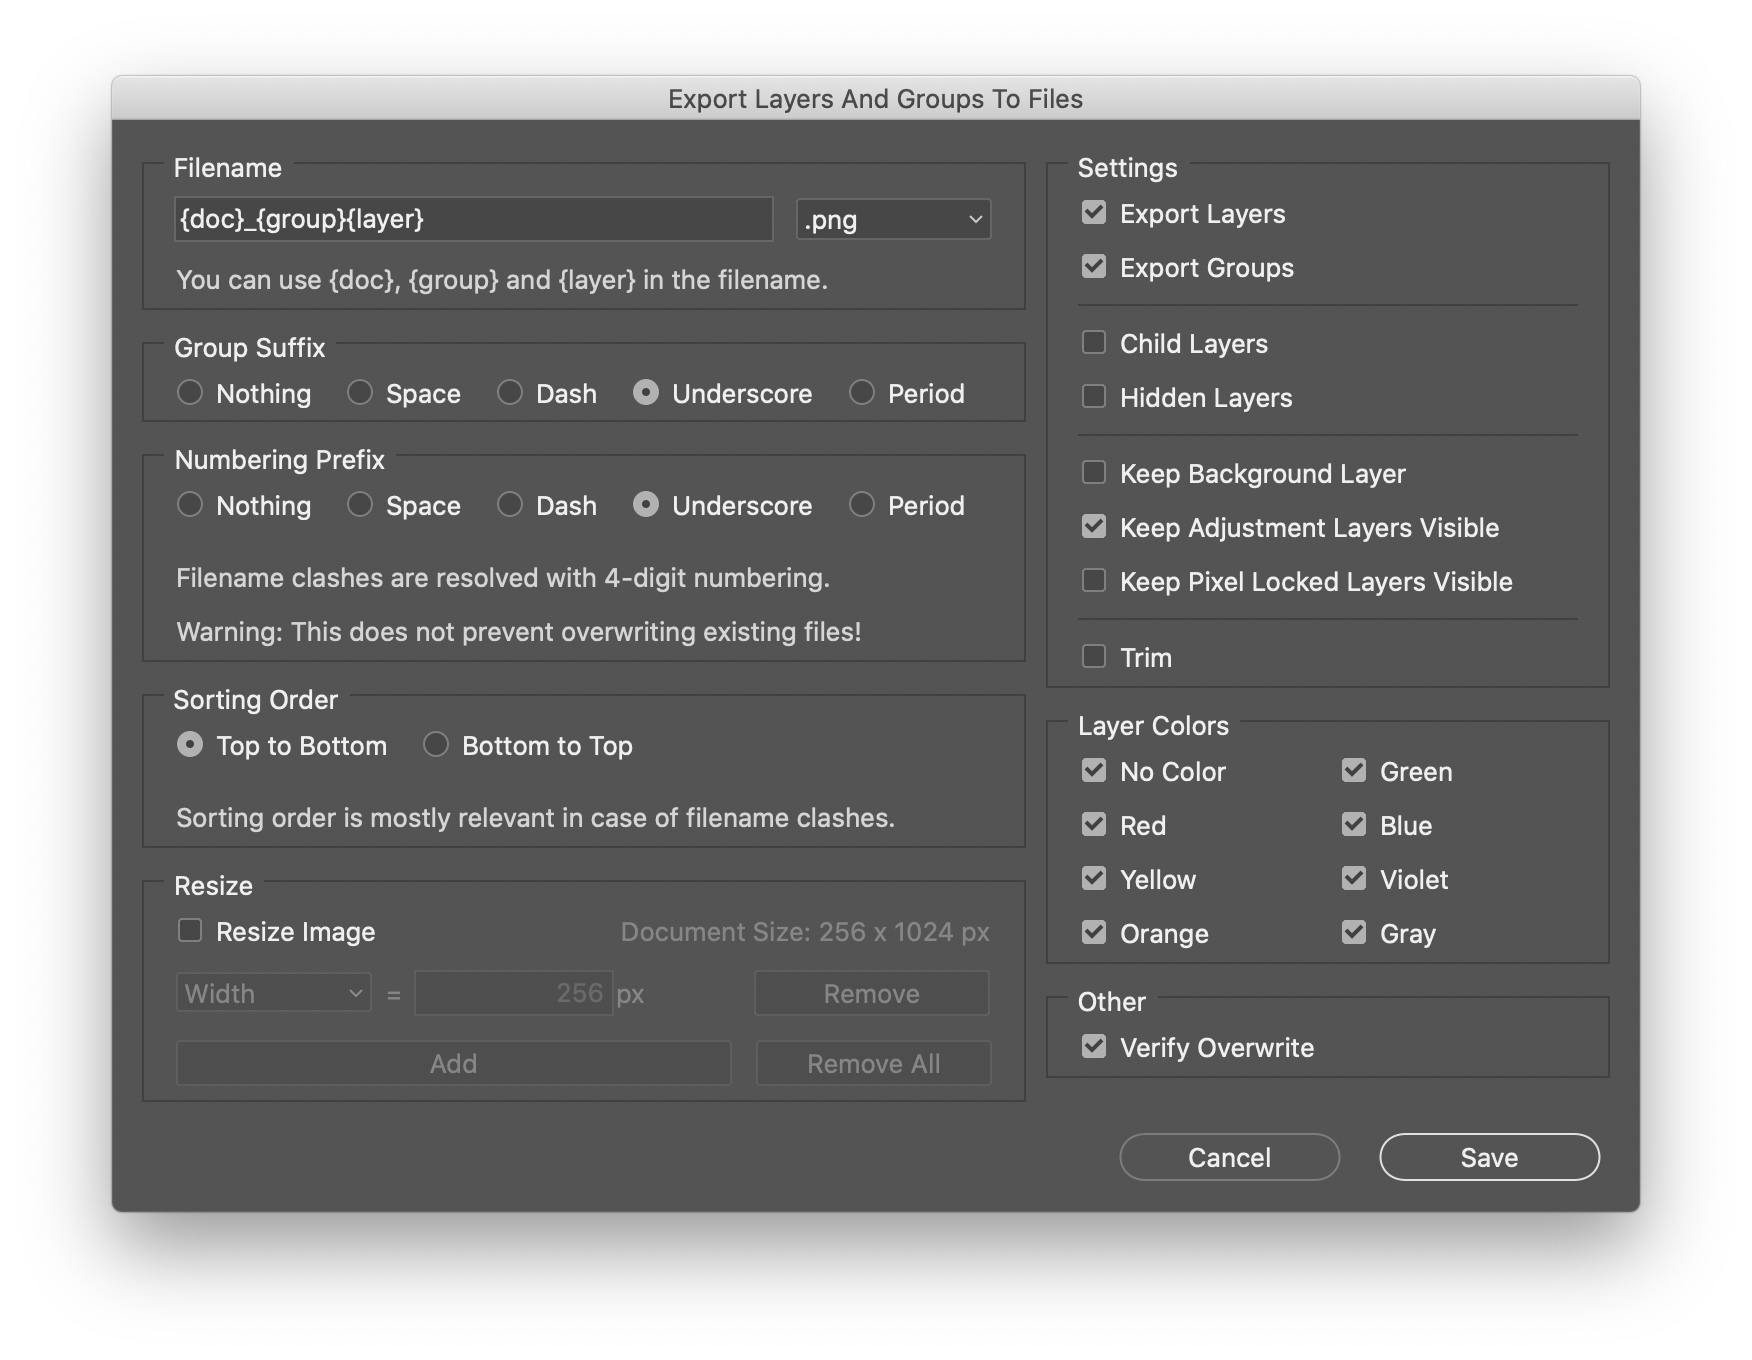
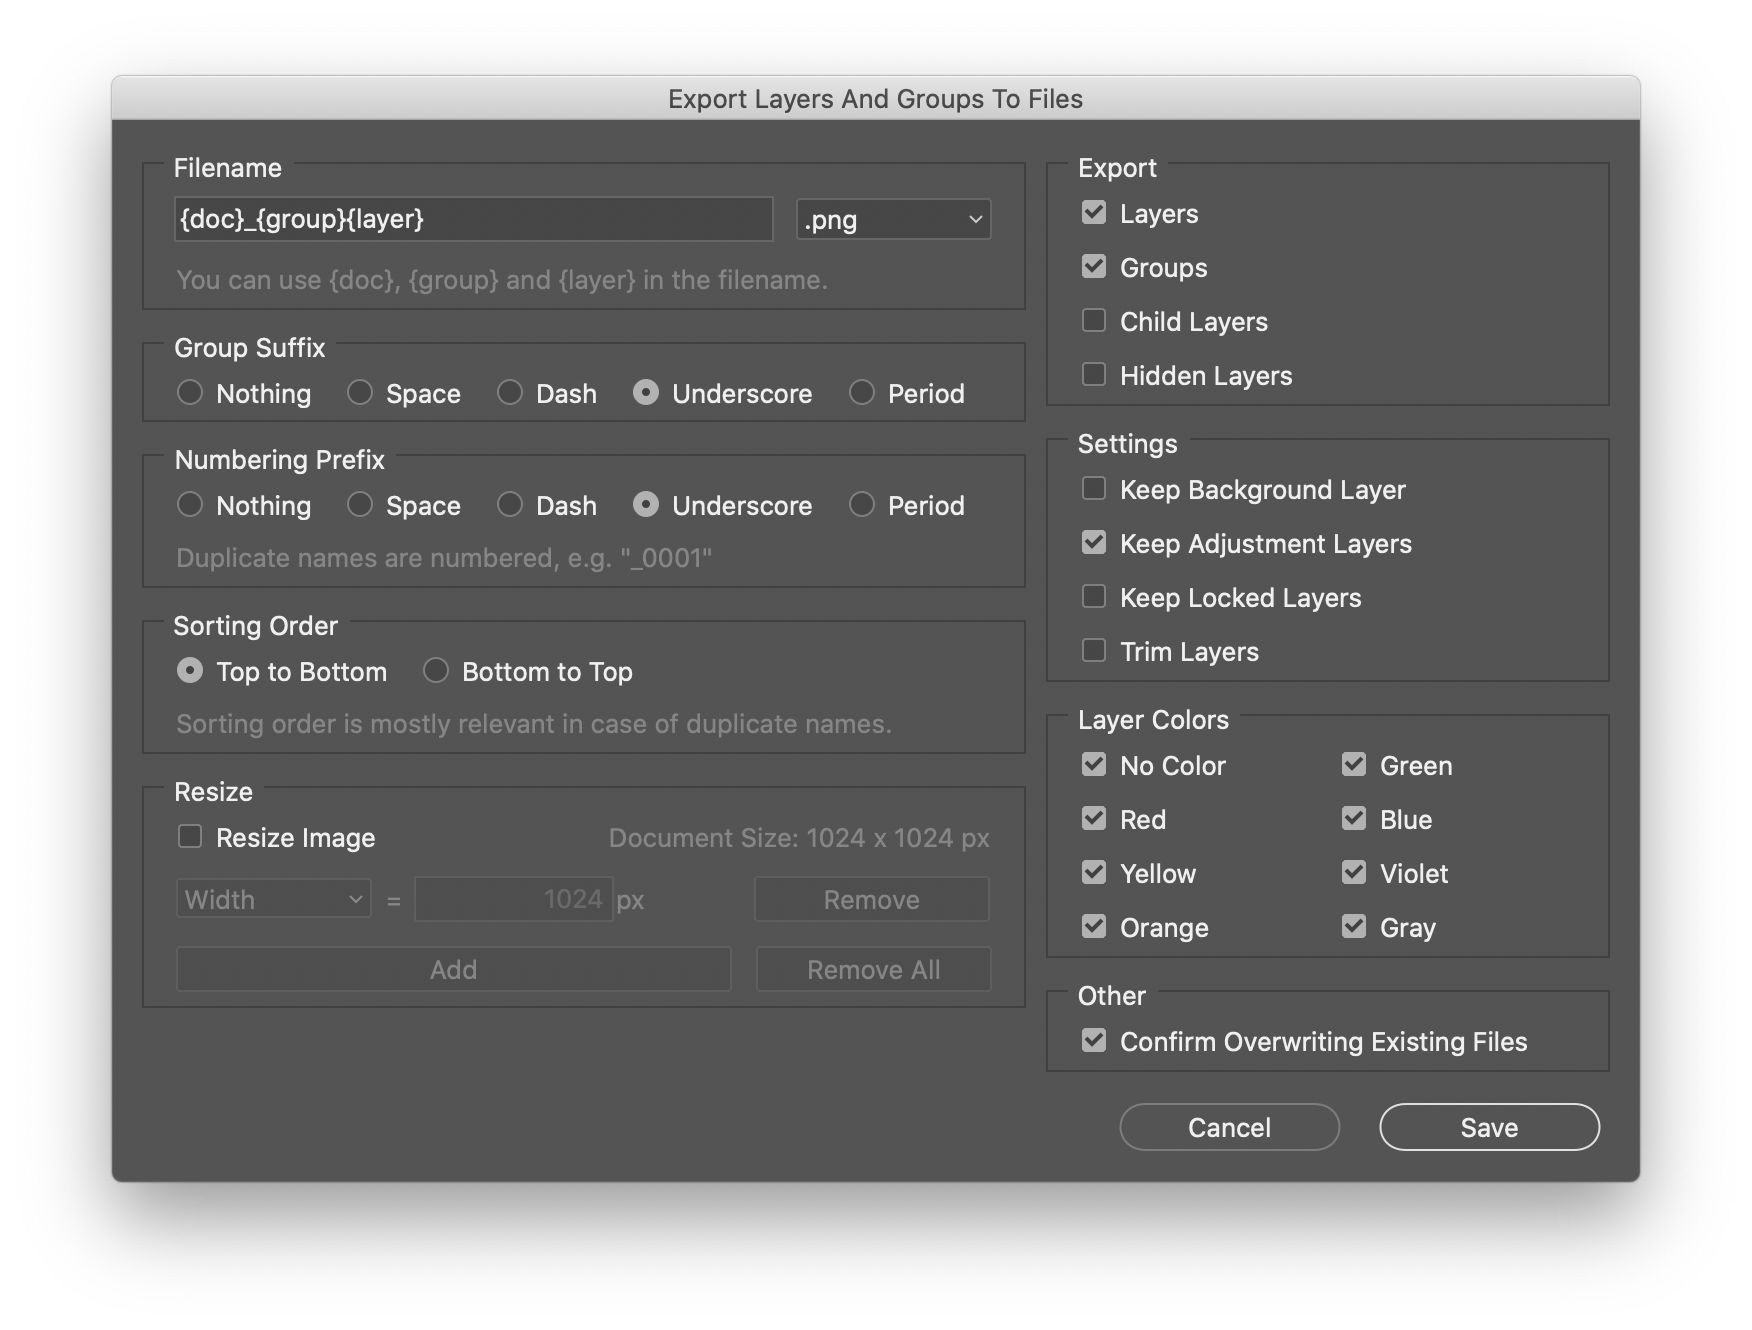
Modified UI

diff --git a/Export Layers And Groups To Files/Export Layers And Groups To Files.jsx b/Export Layers And Groups To Files/Export Layers And Groups To Files.jsx
@@ -26,7 +26,7 @@ SOFTWARE.
 
 const kOptions = 
 {
-	UUID: "94e1f2e6-54d3-4441-b506-1caaac650842",
+	UUID: "f1feca61-db14-4093-9bd5-aff78e1d8006",
 	FILENAME: app.stringIDToTypeID("Filename"),
 	NOCOLOR: app.stringIDToTypeID("NoColor"),
 	RED: app.stringIDToTypeID("Red"),
@@ -48,7 +48,7 @@ const kOptions =
 	PADDINGPREFIX: app.stringIDToTypeID("PaddingPrefix"),
 	BACKGROUND: app.stringIDToTypeID("Background"),
 	SORTINGORDER: app.stringIDToTypeID("SortingOrder"),
-	VERIFYOVERWRITE: app.stringIDToTypeID("VerifyOverwrite"),
+	CONFIRMOVERWRITE: app.stringIDToTypeID("ConfirmOverwrite"),
 	RESIZE: app.stringIDToTypeID("Resize"),
 	RESIZEOPTIONS: app.stringIDToTypeID("ResizeOptions"),
 	RESIZEVALUES: app.stringIDToTypeID("ResizeValues"),
@@ -125,7 +125,7 @@ function main()
 
 	for (var n = 0; n < resizeCount; n++)
 	{
-		if (g.options.verifyOverwrite)
+		if (g.options.confirmOverwrite)
 		{
 			// Make a dry run to see if any files already exists
 			for (var i = 0; i < g.targetLayers.length; i++)
@@ -859,7 +859,8 @@ function showDialog()
 		}
 	}
 
-	win.left.filename.add("statictext", undefined, "You can use {doc}, {group} and {layer} in the filename.");
+	win.left.filename.description = win.left.filename.add("statictext", undefined, "You can use {doc}, {group} and {layer} in the filename.");
+	win.left.filename.description.enabled = false;
 
 	// group suffix
 	win.left.groupSuffix = win.left.add("panel", undefined, "Group Suffix");
@@ -897,9 +898,8 @@ function showDialog()
 		}
 	}
 
-	win.left.numberingPrefix.add("statictext", [0, 0, 0, 0], ""); // spacer
-	win.left.numberingPrefix.add("statictext", undefined, "Filename clashes are resolved with 4-digit numbering.");
-	win.left.numberingPrefix.add("statictext", undefined, "Warning: This does not prevent overwriting existing files!");
+	win.left.numberingPrefix.description1 = win.left.numberingPrefix.add("statictext", undefined, "Duplicate names are numbered, e.g. \"_0001\"");
+	win.left.numberingPrefix.description1.enabled = false;
 
 	// sorting order
 	win.left.sortingOrder = win.left.add("panel", undefined, "Sorting Order");
@@ -925,8 +925,8 @@ function showDialog()
 			ascRadiobutton.value = true;
 	}
 
-	win.left.sortingOrder.add("statictext", [0, 0, 0, 0], ""); // spacer
-	win.left.sortingOrder.add("statictext", undefined, "Sorting order is mostly relevant in case of filename clashes.");
+	win.left.sortingOrder.description = win.left.sortingOrder.add("statictext", undefined, "Sorting order is mostly relevant in case of duplicate names.");
+	win.left.sortingOrder.description.enabled = false;
 
 	// resize
 	win.left.resize = win.left.add("panel", undefined, "Resize");
@@ -1031,7 +1031,15 @@ function showDialog()
 	win.left.resize.buttonGroup.addButton.preferredSize.width = 100;
 	win.left.resize.buttonGroup.addButton.onClick = function()
 	{
-		addSize(kResizeOption.WIDTH, docWidth);
+		if (resizeGroups.length > 0)
+		{
+			var rg = resizeGroups[resizeGroups.length - 1];
+			addSize(rg.resizeOptionInput.selection.text, rg.resizeValueInput.text);
+		}
+		else
+		{
+			addSize(kResizeOption.WIDTH, docWidth);
+		}
 		win.left.resize.wrapper.enabled = true;
 		win.left.resize.wrapper.enabled = resize.value;
 		win.layout.layout(true);
@@ -1061,24 +1069,25 @@ function showDialog()
 	win.left.resize.buttonGroup.addButton.enabled = resize.value;
 	win.left.resize.buttonGroup.removeAllButton.enabled = resize.value;
 
+	// export
+	win.right.export = win.right.add("panel", undefined, "Export");
+	win.right.export.alignChildren = ["fill", "fill"];
+
+	var layers = win.right.export.add("checkbox", undefined, "Layers");
+	var groups = win.right.export.add("checkbox", undefined, "Groups");
+	// exportSpacer = win.right.export.add("panel"); // spacer
+	// exportSpacer.minimumSize.height = exportSpacer.maximumSize.height = 1;
+	var children = win.right.export.add("checkbox", undefined, "Child Layers");
+	var hidden = win.right.export.add("checkbox", undefined, "Hidden Layers");
+
 	// settings
 	win.right.settings = win.right.add("panel", undefined, "Settings");
 	win.right.settings.alignChildren = ["fill", "fill"];
 
-	var layers = win.right.settings.add("checkbox", undefined, "Export Layers");
-	var groups = win.right.settings.add("checkbox", undefined, "Export Groups");
-	settingsRule1 = win.right.settings.add("panel"); // spacer
-	settingsRule1.minimumSize.height = settingsRule1.maximumSize.height = 1;
-	var children = win.right.settings.add("checkbox", undefined, "Child Layers");
-	var hidden = win.right.settings.add("checkbox", undefined, "Hidden Layers");
-	settingsRule2 = win.right.settings.add("panel"); // spacer
-	settingsRule2.minimumSize.height = settingsRule2.maximumSize.height = 1;
 	var background = win.right.settings.add("checkbox", undefined, "Keep Background Layer");
-	var adjustments = win.right.settings.add("checkbox", undefined, "Keep Adjustment Layers Visible");
-	var locked = win.right.settings.add("checkbox", undefined, "Keep Pixel Locked Layers Visible");
-	settingsRule3 = win.right.settings.add("panel"); // spacer
-	settingsRule3.minimumSize.height = settingsRule3.maximumSize.height = 1;
-	var trim = win.right.settings.add("checkbox", undefined, "Trim");
+	var adjustments = win.right.settings.add("checkbox", undefined, "Keep Adjustment Layers");
+	var locked = win.right.settings.add("checkbox", undefined, "Keep Locked Layers");
+	var trim = win.right.settings.add("checkbox", undefined, "Trim Layers");
 
 	hidden.value = g.options.hidden;
 	children.value = g.options.children;
@@ -1122,26 +1131,20 @@ function showDialog()
 	violet.value = g.options.violet;
 	gray.value = g.options.gray;
 
-	// verify overwrite
+	// confirm overwrite
 	win.right.other = win.right.add("panel", undefined, "Other");
 	win.right.other.alignChildren = "left";
 
-	var verifyOverwrite = win.right.other.add("checkbox", undefined, "Verify Overwrite");
-	verifyOverwrite.value = g.options.verifyOverwrite;
+	var confirmOverwrite = win.right.other.add("checkbox", undefined, "Confirm Overwriting Existing Files");
+	confirmOverwrite.value = g.options.confirmOverwrite;
 
 	// buttons
 	var buttonGroup = win.add("group");
 	buttonGroup.orientation = "row";
 	buttonGroup.alignment = ["right", "bottom"];
 
-	var cancelButton = buttonGroup.add("button", undefined, "Cancel", {name: "cancel"});
-	cancelButton.minimumSize = [120, 0];
-	cancelButton.onClick = function() { win.close(); };
-
-	var saveButton = buttonGroup.add("button", undefined, "Save", {name: "ok"});
-	saveButton.minimumSize = [120, 0];
-	saveButton.onClick = function()
-	{	
+	var saveSettingsAndClose = function()
+	{
 		var groupSuffix = "";
 		for (var i = 0; i < groupSuffixRadiobuttons.length; i++)
 		{
@@ -1207,14 +1210,32 @@ function showDialog()
 			sortingOrder: sortingOrder,
 			resize: resize.value,
 			resizeItems: resizeItems,
-			verifyOverwrite: verifyOverwrite.value,
+			confirmOverwrite: confirmOverwrite.value,
 		};
-
-		win.close();
 
 		try
 		{
 			saveSettings();
+			win.close();
+		}
+		catch (err)
+		{
+			alert("Could not save preferences\n" + err);
+		}
+	}
+
+	var cancelButton = buttonGroup.add("button", undefined, "Cancel", {name: "cancel"});
+	cancelButton.minimumSize = [120, 0];
+	cancelButton.onClick = function() { saveSettingsAndClose(); }
+
+	var saveButton = buttonGroup.add("button", undefined, "Save", {name: "ok"});
+	saveButton.minimumSize = [120, 0];
+	saveButton.onClick = function()
+	{	
+		saveSettingsAndClose();
+
+		try
+		{
 			main();
 		}
 		catch (err)
@@ -1261,7 +1282,7 @@ function loadSettings()
 			locked: false,
 			children: false,
 			background: false,
-			verifyOverwrite: true,
+			confirmOverwrite: true,
 			format: "",
 			groupSuffix: "Underscore",
 			paddingPrefix: "Underscore",
@@ -1309,7 +1330,7 @@ function loadSettings()
 		locked: des.getBoolean(kOptions.LOCKED),
 		children: des.getBoolean(kOptions.CHILDREN),
 		background: des.getBoolean(kOptions.BACKGROUND),
-		verifyOverwrite: des.getBoolean(kOptions.VERIFYOVERWRITE),
+		confirmOverwrite: des.getBoolean(kOptions.CONFIRMOVERWRITE),
 		format: des.getString(kOptions.FORMAT),
 		groupSuffix: des.getString(kOptions.GROUPSUFFIX),
 		paddingPrefix: des.getString(kOptions.PADDINGPREFIX),
@@ -1358,7 +1379,7 @@ function saveSettings()
 	des.putBoolean(kOptions.LOCKED, g.options.locked);
 	des.putBoolean(kOptions.CHILDREN, g.options.children);
 	des.putBoolean(kOptions.BACKGROUND, g.options.background);
-	des.putBoolean(kOptions.VERIFYOVERWRITE, g.options.verifyOverwrite);
+	des.putBoolean(kOptions.CONFIRMOVERWRITE, g.options.confirmOverwrite);
 	des.putString(kOptions.FORMAT, g.options.format);
 	des.putString(kOptions.GROUPSUFFIX, g.options.groupSuffix);
 	des.putString(kOptions.PADDINGPREFIX, g.options.paddingPrefix);

diff --git a/Export Layers And Groups To Files/README.md b/Export Layers And Groups To Files/README.md
@@ -28,16 +28,18 @@ Tested with Photoshop CC 2020.
 - [Numbering Prefix](#Numbering-Prefix)
 - [Sorting Order](#Sorting-Order)
 - [Resize](#Resize)
-- [Export Layers](#Export-Layers)
-- [Export Groups](#Export-Groups)
-- [Child Layers](#Child-Layers)
-- [Hidden Layers (With Layer Color)](#Hidden-Layers-With-Layer-Color)
-- [Keep Background Layer](#Keep-Background-Layer)
-- [Keep Adjustment Layers Visible](#Keep-Adjustment-Layers-Visible)
-- [Keep Pixel Locked Layers Visible](#Keep-Pixel-Locked-Layers-Visible)
-- [Trim](#Trim)
+- Export
+	- [Layers](#Layers)
+	- [Groups](#Groups)
+	- [Child Layers](#Child-Layers)
+	- [Hidden Layers](#Hidden-Layers)
+- Settings
+	- [Keep Background Layer](#Keep-Background-Layer)
+	- [Keep Adjustment Layers](#Keep-Adjustment-Layers)
+	- [Keep Locked Layers](#Keep-Locked-Layers)
+	- [Trim Layer](#Trim-Layer)
 - [Layer Colors](#Layer-Colors)
-- [Verify Overwrite](#Verify-Overwrite)
+- [Confirm Overwrite](#Confirm-Overwrite)
 
 ### Filename
 
@@ -98,11 +100,11 @@ Allows you to export in multiple sizes by resizing to match a specific **width**
 
 When this option is enabled, the exported layers will be placed in a subfolder with the name of the size, like `Width_256px`.
 
-### Export Layers
+### Layers
 
 Will include layers in the export.
 
-### Export Groups
+### Groups
 
 Will include groups in the export.
 
@@ -112,7 +114,7 @@ If enabled, the script will export layers in groups and sub-groups separately. O
 
 Tip: Use it together with layer colors to specify which layers/group should be exported.
 
-### Hidden Layers (With Layer Color)
+### Hidden Layers
 
 Will make hidden layers visible and export them, if they have one of selected layer colors.
 
@@ -120,15 +122,15 @@ Will make hidden layers visible and export them, if they have one of selected la
 
 If enabled, will leave the **Background** layer visible and not export it separately. Otherwise the **Background** layer is hidden and exported separately - depending on whether it is visible and other preferences, like **Layer Colors**.
 
-### Keep Adjustment Layers Visible
+### Keep Adjustment Layers
 
 Keeps **Adjustment Layers** visible so they still affect the layers being exported. Useful to keep overall adjustment on all layers.
 
-### Keep Pixel Locked Layers Visible
+### Keep Locked Layers
 
-Keeps **Pixel Locked** (including generally locked) layers visible on all exported layers. This is, for example, useful if you have a watermark that you want to remain visible on each exported layer.
+Keeps **Locked** (specifically *Pixel Locked*) layers visible on all exported layers. This is, for example, useful if you have a watermark that you want to remain visible on each exported layer.
 
-### Trim
+### Trim Layers
 
 Crops the image by surrounding transparent pixels.
 
@@ -138,7 +140,7 @@ Only layers and groups with the specified layer color(s) are exported. This is e
 
 Note: The **Background** layer is considered to have "No Color".
 
-### Verify Overwrite
+### Confirm Overwrite
 
 Performs a test run prior to saving any files, and warns you if one or more files will be overwritten.
 
